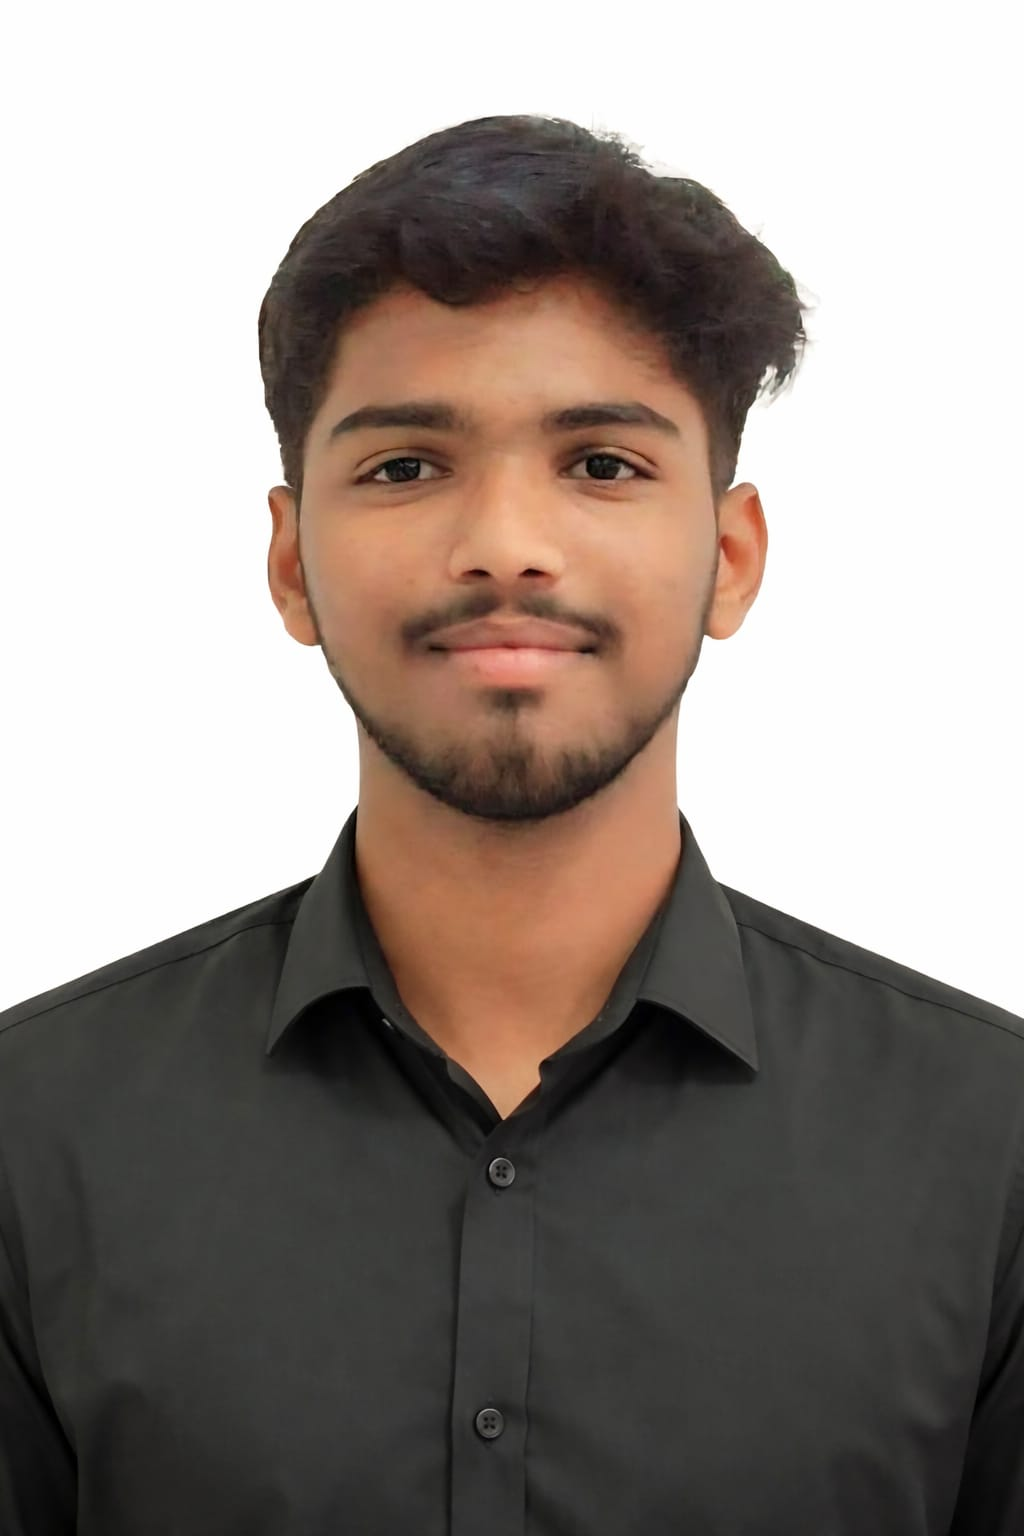
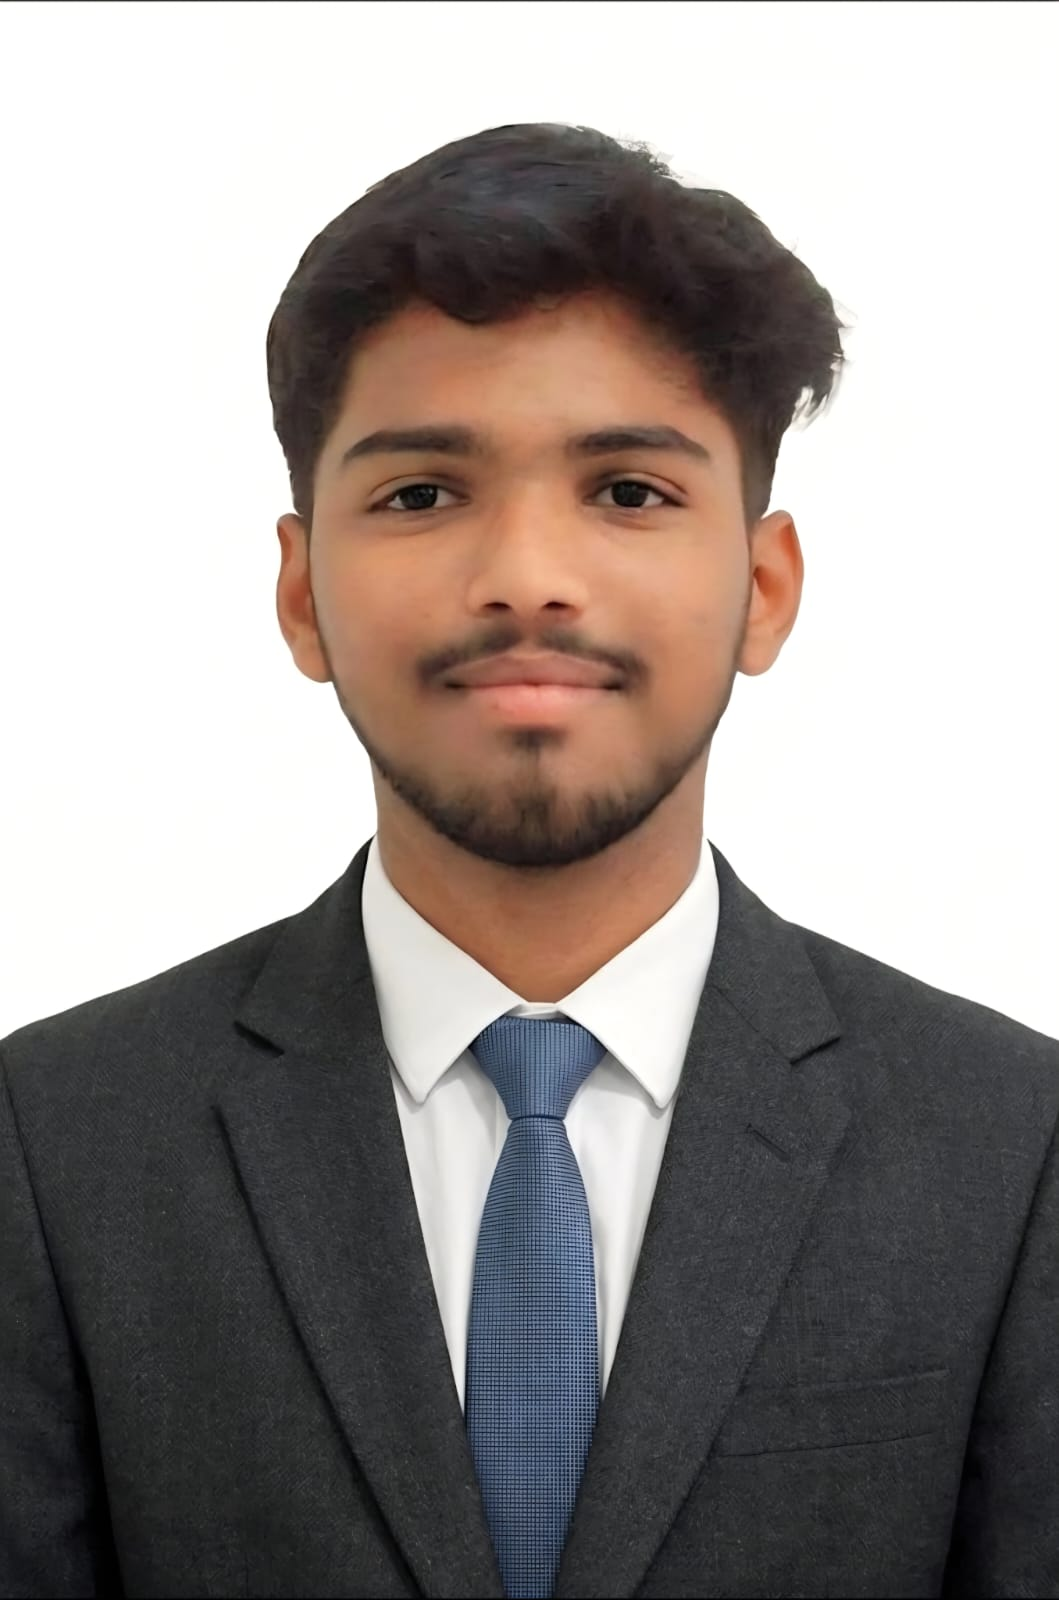
Enhance team sections: reorder members, update profiles, fix cropped images, remove grayscale, and repair broken image paths

diff --git a/components/sections/TeamSection.tsx b/components/sections/TeamSection.tsx
@@ -14,20 +14,21 @@ type TeamMember = {
         portfolio?: string;
         twitter?: string;
     };
+    objectPosition?: string;
 };
 
 const team: TeamMember[] = [
-    { name: 'Zarin Shaikh', role: 'Founder & CEO', desc: 'Visionary leader of Zerixa Tech, driving innovation and business growth with a focus on delivering smart digital solutions and client success.', image: '/Zarina.png', social: {} },
-    { name: 'Azim Sayyed', role: 'Co-Founder', desc: 'Co-founder of Zerixa Tech, contributing to business development, strategic planning, and operational excellence.', image: 'https://i.pravatar.cc/300?u=Azim', social: {} },
-    { name: 'Anas Shaikh', role: 'Chief Technology Officer (CTO)', desc: 'Leads all technical operations, ensuring high-quality development, performance, and scalable digital solutions.', image: '/Anas.jpeg', social: { github: 'https://github.com/Blexedanas', portfolio: 'https://anasportfoliio.web.app/', linkedin: 'https://www.linkedin.com/in/anas-shaikh-a0ba1a2b1/' } },
-    { name: 'Dipen', role: 'Full Stack Developer', desc: 'Responsible for end-to-end web development, creating responsive, efficient, and user-friendly digital platforms.', image: '/Dipen.png', social: { github: 'https://github.com/vishwakarmadipen85', portfolio: 'https://dipenvishportfolio.netlify.app/', linkedin: 'https://www.linkedin.com/in/dipen-vishwakarma-976705303/' } },
-    { name: 'Amman Shaikh', role: 'Head of UI/UX Design', desc: 'Designs intuitive and visually engaging user experiences, enhancing customer interaction and brand identity.', image: '/Amaan.png', social: {} },
-    { name: 'Sohail Shaikh', role: 'Head of SEO', desc: 'Expert in search engine optimization, driving organic growth and improving website rankings.', image: '/Sohail.png', social: {} },
+    { name: 'Zarin R Shaikh', role: 'Founder & CEO', desc: 'Visionary leader of Zerixa Tech, driving innovation and business growth with a focus on delivering smart digital solutions and client success.', image: '/Zarin.jpeg', social: {} },
+    { name: 'Azim Sayyed', role: 'Co-Founder', desc: 'Co-founder of Zerixa Tech, contributing to business development, strategic planning, and operational excellence.', image: '/Azim.jpeg', social: {} },
+    { name: 'Anas Shaikh', role: 'Chief Technology Officer (CTO)', desc: 'Drives the technology vision of Zerixa Tech, building scalable digital solutions and leading innovation across all products.', image: '/Anas.jpeg', objectPosition: 'object-top', social: { github: 'https://github.com/Blexedanas', portfolio: 'https://anasportfoliio.web.app/', linkedin: 'https://www.linkedin.com/in/anas-shaikh-a0ba1a2b1/' } },
+    { name: 'Dipen Vishwakarama', role: 'Full Stack Developer', desc: 'Responsible for end-to-end web development, creating responsive, efficient, and user-friendly digital platforms.', image: '/Dipen.jpeg', objectPosition: 'object-top', social: { github: 'https://github.com/vishwakarmadipen85', portfolio: 'https://dipenvishportfolio.netlify.app/', linkedin: 'https://www.linkedin.com/in/dipen-vishwakarma-976705303/' } },
     { name: 'Satyam Wada', role: 'Head of Social Media Marketing', desc: 'Leads social media strategies and campaigns to boost brand presence and engagement. Awarded "Miss Cultural India World".', image: 'https://i.pravatar.cc/300?u=Satyam', social: {} },
-    { name: 'Adv. Vikram Kapoor', role: 'Head Legal Advisor', desc: 'Provides expert legal guidance, ensuring compliance, contracts, and business protection.', image: 'https://i.pravatar.cc/300?u=Vikram', social: {} },
-    { name: 'CA Ravi Vishwakarma', role: 'Head of Accounts & Finance', desc: 'Manages financial planning, accounting, and ensures smooth financial operations.', image: 'https://i.pravatar.cc/300?u=Ravi', social: {} },
-    { name: 'Sujzzan', role: 'Head of Social Media Operations', desc: 'Manages platforms like Reels, Facebook, and content strategy to boost engagement and reach. Recognized as a Strong Contestant on Splitsvilla 2026.', image: 'https://i.pravatar.cc/300?u=Sujzzan', social: {} },
+    { name: 'Suzzane', role: 'Head of Social Media Operations', desc: 'Manages platforms like Reels, Facebook, and content strategy to boost engagement and reach. Recognized as a Strong Contestant on Splitsvilla 2026.', image: 'https://i.pravatar.cc/300?u=Sujzzan', social: {} },
+    { name: 'Sohail Shaikh', role: 'Head of SEO', desc: 'Expert in search engine optimization, driving organic growth and improving website rankings.', image: '/Sohail.png', objectPosition: 'object-top', social: {} },
     { name: 'Ibrahim Shaikh', role: 'Professional Photographer', desc: 'An experienced photographer who has worked on numerous films, advertisements, and web series, bringing high-quality visual storytelling to every project.', image: 'https://i.pravatar.cc/300?u=Ibrahim', social: {} },
+    { name: 'Amman Shaikh', role: 'Head of UI/UX Design', desc: 'Designs intuitive and visually engaging user experiences, enhancing customer interaction and brand identity.', image: '/Amaan.png', objectPosition: 'object-top', social: {} },
+    { name: 'CA Ravi Vishwakarma', role: 'Head of Accounts & Finance', desc: 'Manages financial planning, accounting, and ensures smooth financial operations.', image: 'https://i.pravatar.cc/300?u=Ravi', social: {} },
+    { name: 'Adv. Vikram Kapoor', role: 'Head Legal Advisor', desc: 'Provides expert legal guidance, ensuring compliance, contracts, and business protection.', image: 'https://i.pravatar.cc/300?u=Vikram', social: {} },
 ]
 
 export default function TeamSection() {
@@ -58,7 +59,7 @@ export default function TeamSection() {
                                     src={member.image}
                                     alt={member.name}
                                     fill
-                                    className="object-cover object-top absolute inset-0 z-10 filter grayscale group-hover:grayscale-0 group-hover:scale-105 transition-all duration-700"
+                                    className={`object-cover ${member.objectPosition || 'object-center'} absolute inset-0 z-10 filter group-hover:scale-105 transition-all duration-700`}
                                 />
                                 {/* Bottom Gradient Overlay */}
                                 <div className="absolute inset-x-0 bottom-0 h-1/2 bg-gradient-to-t from-white via-white/80 to-transparent z-20 pointer-events-none opacity-0 group-hover:opacity-100 transition-opacity duration-500" />

diff --git a/app/about/page.tsx b/app/about/page.tsx
@@ -26,20 +26,21 @@ type TeamMember = {
         portfolio?: string;
         twitter?: string;
     };
+    objectPosition?: string;
 };
 
 const team: TeamMember[] = [
-    { name: 'Zarin Shaikh', role: 'Founder & CEO', desc: 'Visionary leader of Zerixa Tech, driving innovation and business growth with a focus on delivering smart digital solutions and client success.', image: '/Zarina.png', color: 'hsl(20, 70%, 55%)', social: {} },
-    { name: 'Azim Sayyed', role: 'Co-Founder', desc: 'Co-founder of Zerixa Tech, contributing to business development, strategic planning, and operational excellence.', image: '', color: 'hsl(210, 70%, 50%)', social: {} },
-    { name: 'Anas Shaikh', role: 'Chief Technology Officer (CTO)', desc: 'Leads all technical operations, ensuring high-quality development, performance, and scalable digital solutions.', image: '/Anas.jpeg', color: 'hsl(260, 70%, 65%)', social: {} },
-    { name: 'Dipen', role: 'Full Stack Developer', desc: 'Responsible for end-to-end web development, creating responsive, efficient, and user-friendly digital platforms.', image: '/Dipen.png', color: 'hsl(180, 70%, 45%)', social: {} },
-    { name: 'Amman Shaikh', role: 'Head of UI/UX Design', desc: 'Designs intuitive and visually engaging user experiences, enhancing customer interaction and brand identity.', image: '/Amaan.png', color: 'hsl(200, 70%, 55%)', social: {} },
-    { name: 'Sohail Shaikh', role: 'Head of SEO', desc: 'Expert in search engine optimization, driving organic growth and improving website rankings.', image: '/Sohail.png', color: 'hsl(280, 70%, 60%)', social: {} },
+    { name: 'Zarin R Shaikh', role: 'Founder & CEO', desc: 'Visionary leader of Zerixa Tech, driving innovation and business growth with a focus on delivering smart digital solutions and client success.', image: '/Zarin.jpeg', color: 'hsl(20, 70%, 55%)', social: {} },
+    { name: 'Azim Sayyed', role: 'Co-Founder', desc: 'Co-founder of Zerixa Tech, contributing to business development, strategic planning, and operational excellence.', image: '/Azim.jpeg', color: 'hsl(210, 70%, 50%)', social: {} },
+    { name: 'Anas Shaikh', role: 'Chief Technology Officer (CTO)', desc: 'Drives the technology vision of Zerixa Tech, building scalable digital solutions and leading innovation across all products.', image: '/Anas.jpeg', color: 'hsl(260, 70%, 65%)', objectPosition: 'object-top', social: {} },
+    { name: 'Dipen Vishwakarama', role: 'Full Stack Developer', desc: 'Responsible for end-to-end web development, creating responsive, efficient, and user-friendly digital platforms.', image: '/Dipen.jpeg', color: 'hsl(180, 70%, 45%)', objectPosition: 'object-top', social: {} },
     { name: 'Satyam Wada', role: 'Head of Social Media Marketing', desc: 'Leads social media strategies and campaigns to boost brand presence and engagement. Awarded "Miss Cultural India World".', image: '', color: 'hsl(330, 70%, 65%)', social: {} },
-    { name: 'Adv. Vikram Kapoor', role: 'Head Legal Advisor', desc: 'Provides expert legal guidance, ensuring compliance, contracts, and business protection.', image: '', color: 'hsl(150, 60%, 50%)', social: {} },
-    { name: 'CA Ravi Vishwakarma', role: 'Head of Accounts & Finance', desc: 'Manages financial planning, accounting, and ensures smooth financial operations.', image: '', color: 'hsl(45, 80%, 50%)', social: {} },
-    { name: 'Sujzzan', role: 'Head of Social Media Operations', desc: 'Manages platforms like Reels, Facebook, and content strategy to boost engagement and reach. Recognized as a Strong Contestant on Splitsvilla 2026.', image: '', color: 'hsl(10, 70%, 60%)', social: {} },
+    { name: 'Suzzane', role: 'Head of Social Media Operations', desc: 'Manages platforms like Reels, Facebook, and content strategy to boost engagement and reach. Recognized as a Strong Contestant on Splitsvilla 2026.', image: '', color: 'hsl(10, 70%, 60%)', social: {} },
+    { name: 'Sohail Shaikh', role: 'Head of SEO', desc: 'Expert in search engine optimization, driving organic growth and improving website rankings.', image: '/Sohail.png', color: 'hsl(280, 70%, 60%)', objectPosition: 'object-top', social: {} },
     { name: 'Ibrahim Shaikh', role: 'Professional Photographer', desc: 'An experienced photographer who has worked on numerous films, advertisements, and web series, bringing high-quality visual storytelling to every project.', image: '', color: 'hsl(220, 70%, 40%)', social: {} },
+    { name: 'Amman Shaikh', role: 'Head of UI/UX Design', desc: 'Designs intuitive and visually engaging user experiences, enhancing customer interaction and brand identity.', image: '/Amaan.png', color: 'hsl(200, 70%, 55%)', objectPosition: 'object-top', social: {} },
+    { name: 'CA Ravi Vishwakarma', role: 'Head of Accounts & Finance', desc: 'Manages financial planning, accounting, and ensures smooth financial operations.', image: '', color: 'hsl(45, 80%, 50%)', social: {} },
+    { name: 'Adv. Vikram Kapoor', role: 'Head Legal Advisor', desc: 'Provides expert legal guidance, ensuring compliance, contracts, and business protection.', image: '', color: 'hsl(150, 60%, 50%)', social: {} },
 ]
 
 
@@ -242,7 +243,7 @@ export default function AboutPage() {
                                         {/* @ts-ignore */}
                                         {member.image ? (
                                             /* @ts-ignore */
-                                            <img src={member.image} alt={member.name} className="w-full h-full object-cover object-top grayscale group-hover:grayscale-0 transition-all duration-500" />
+                                            <img src={member.image} alt={member.name} className={`w-full h-full object-cover ${member.objectPosition || 'object-center'} transition-all duration-500`} />
                                         ) : (
                                             member.name[0]
                                         )}

diff --git a/components/sections/FoundersSection.tsx b/components/sections/FoundersSection.tsx
@@ -9,7 +9,7 @@ const founders = [
     {
         name: "Zarin R Shaikh",
         role: "Founder & CEO",
-        image: "/Zarina.png", 
+        image: "/Zarin.jpeg", 
         bio: "Strategic visionary leading ZERIXA TECH's mission. Zarin drives the core business strategy to redefine how brands interact with technology.",
         linkedin: "https://www.linkedin.com/",
         github: "https://github.com/",
@@ -62,7 +62,7 @@ export default function FoundersSection() {
                             className="group relative"
                         >
                             {/* Magazine-style Card */}
-                            <div className="relative aspect-[4/5] mb-10 overflow-hidden rounded-[2.5rem] border border-black/5 grayscale group-hover:grayscale-0 transition-all duration-700 max-w-[450px] mx-auto shadow-2xl bg-white">
+                            <div className="relative aspect-[4/5] mb-10 overflow-hidden rounded-[2.5rem] border border-black/5 transition-all duration-700 max-w-[450px] mx-auto shadow-2xl bg-white">
                                 <Image
                                     src={founder.image}
                                     alt={founder.name}
